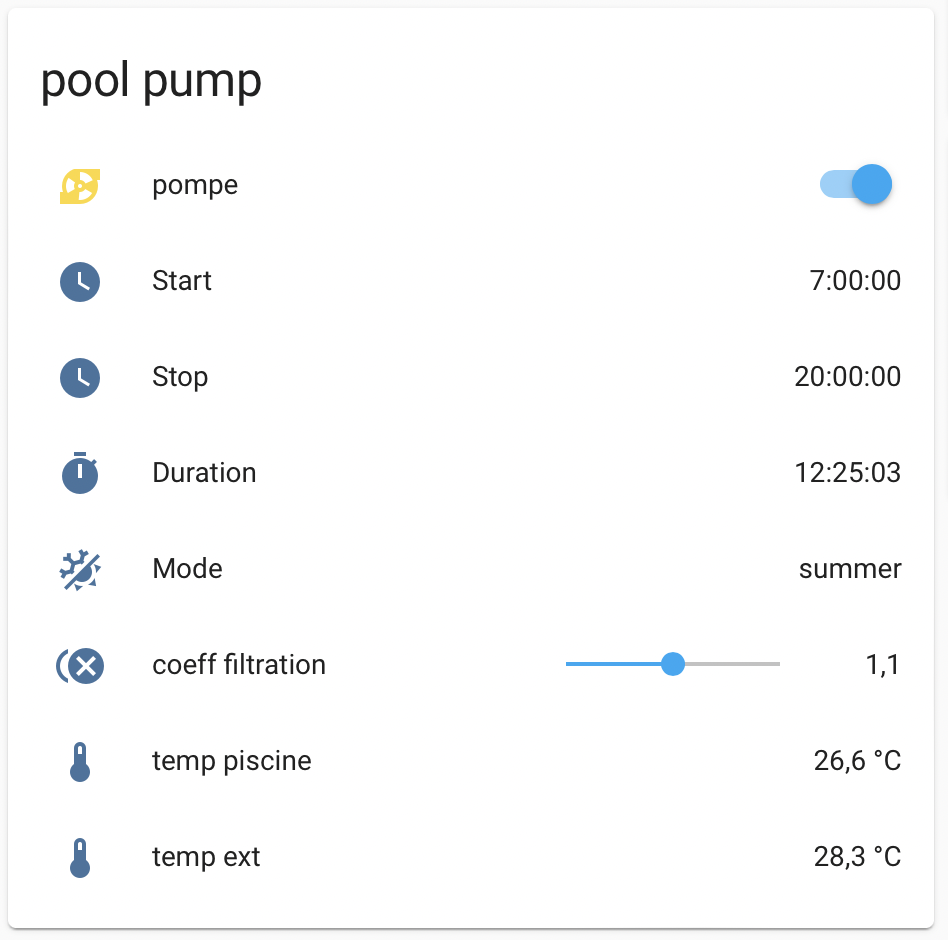
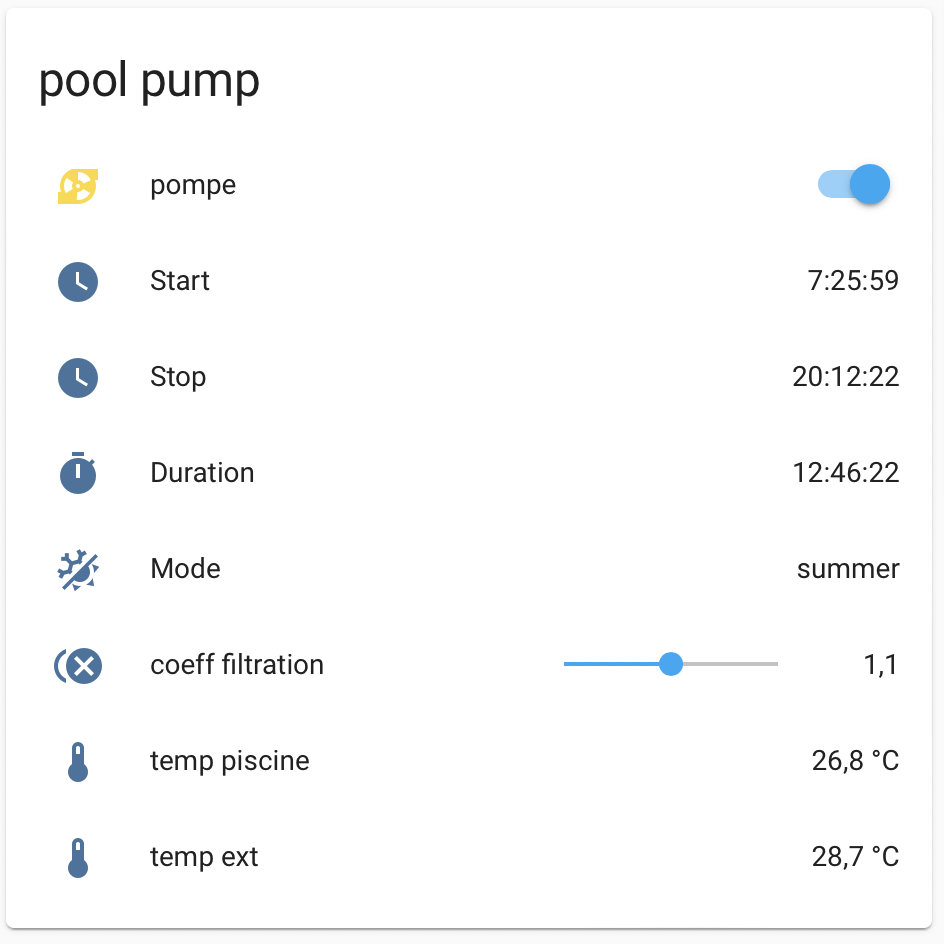
fix start/stop MQTT info value & update png

diff --git a/pool.js b/pool.js
@@ -133,12 +133,8 @@ function compute_schedule_filt_pivot(d) {
   let aprem = d - matin;
   s = [ status.next_noon - matin, status.next_noon + aprem ];
 
-  let h = Math.floor(s[0]);
-  let m = Math.floor((s[0]- h)*60);
-  status.start = JSON.stringify(h) +":" + JSON.stringify(m);
-  h = Math.floor(s[1]);
-  m = Math.floor((s[1]- h)*60);
-  status.stop= JSON.stringify(h) +":" + JSON.stringify(m);
+  status.start = JSON.stringify(s[0]);
+  status.stop = JSON.stringify(s[1]);
 
   return s;
 }
